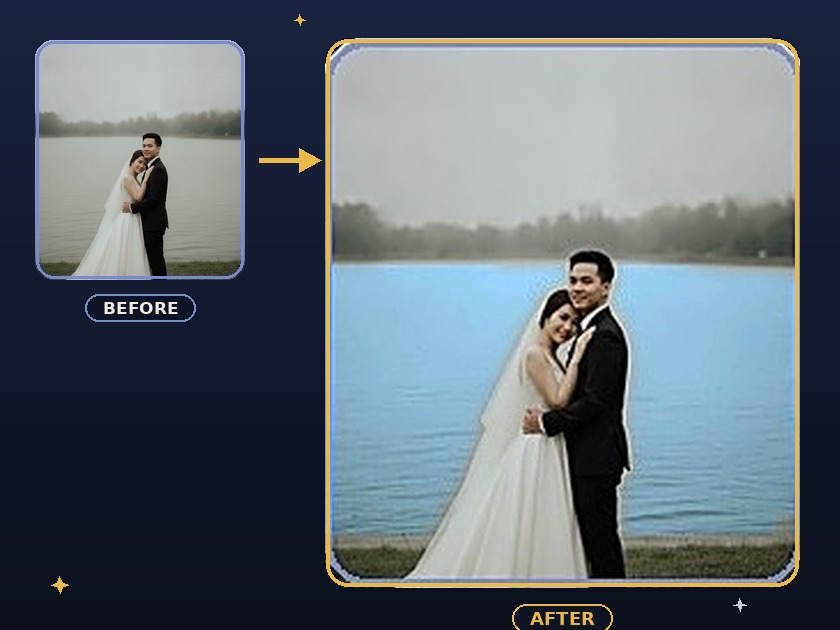
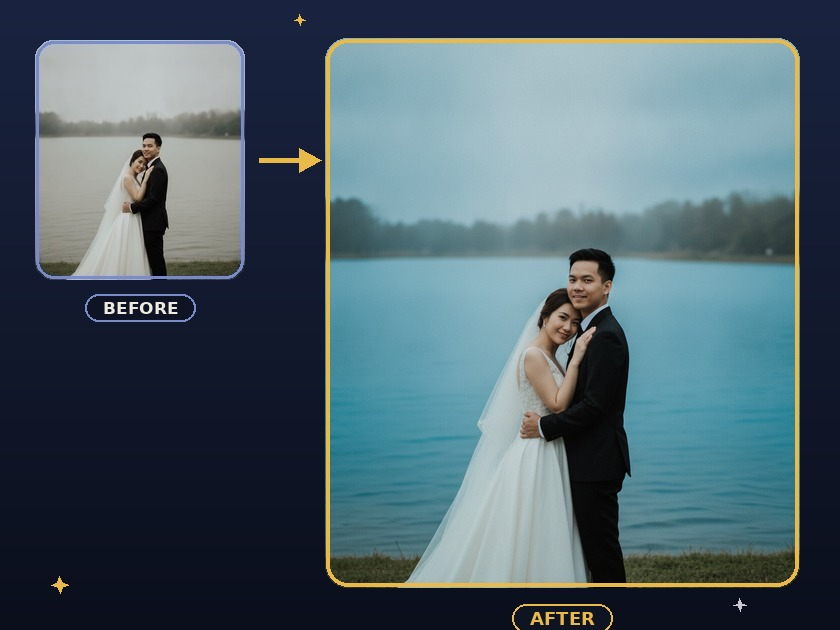
v4.20.30: fix visible seam artifact in water-edit.jpg (#129)
* v4.7.2: fix stale-version banner falsely firing on any version mismatch

The update-available toast compared version.json to APP_VER with !== instead
of a real newer-than check, so a stale/CDN-cached version.json serving an
OLDER value (observed live: a "3.8.0" banner while already on v4.7.1) wrongly
told users a new build had shipped. Added a semver-style verNewer() compare
so the toast only fires when the fetched version is genuinely newer.

Discovered from a user screenshot of the live Setup page while confirming
Gemini/RunningHub/OpenAI key verification all work end-to-end.

* v4.8.0: rebuild RunningHub Enterprise on the real Standard Model API

The RunningHub integration was built against a guessed API shape
(webappId + nodeInfoList, apiKey in the body) that turned out not to match
what Enterprise-Shared keys actually use. Working with a real key against
RunningHub's live docs and its published model-registry.public.json, the
actual API is the "Standard Model API" (openapi/v2): a fixed per-model
endpoint path, Bearer-token auth, and a JSON body — no app/workflow
node-ID mapping needed at all.

Rewrote the client: rhV2Upload/Submit/Query/PollUntilDone/GenerateOne
replace the old upload/run/status/outputs functions. Nano Banana 2
(rhart-image-n-g31-flash/image-to-image) ships as a built-in default
apiPath, confirmed end-to-end against the live docs and registry, so it
now works the instant a key is saved — no per-model setup. Other models
[…]

diff --git a/docs/app/sw.js b/docs/app/sw.js
@@ -1,6 +1,6 @@
 /* HNK Web Studio service worker — cache-first for library assets,
    network-first for everything else (so app updates arrive immediately). */
-var CACHE = "hnk-web-studio-v4-20-29";
+var CACHE = "hnk-web-studio-v4-20-30";
 var OFFLINE_URL = "./index.html";
 
 self.addEventListener("install", function (e) {

diff --git a/docs/app/index.html b/docs/app/index.html
@@ -4028,7 +4028,7 @@ if ("serviceWorker" in navigator) {
 }
 
 /* version check: tell cached users when a new build ships */
-var APP_VER="4.20.29";
+var APP_VER="4.20.30";
 (function(){
   var vv="v"+APP_VER;
   var nv=document.getElementById("navVer"); if(nv) nv.textContent=vv;
